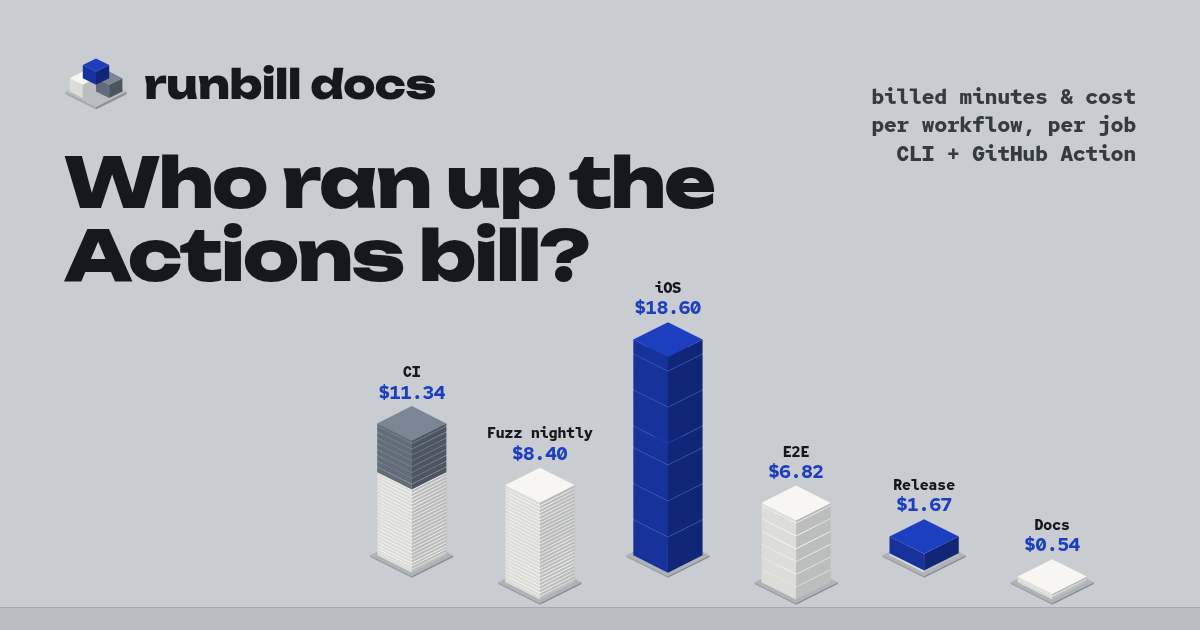
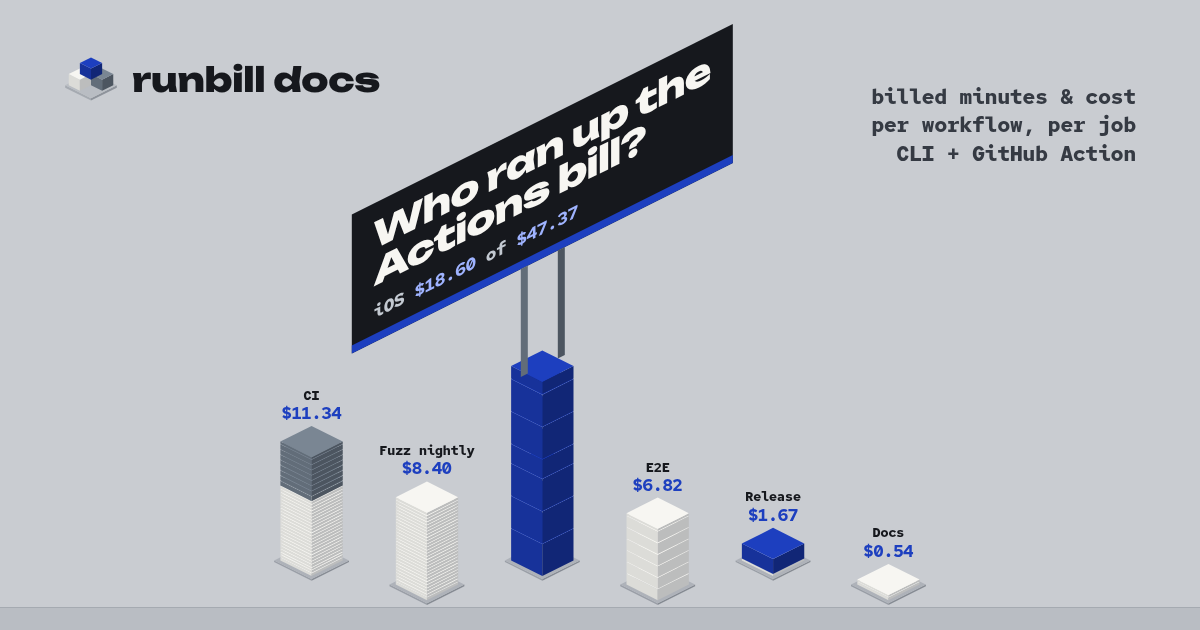
site: the city is the hero; headline becomes a billboard on the tallest roof (page + OG/social preview) (#7)
The v2.0 top-left heavy-sans question headline read structurally like certfan and linelore.
- h1 now lives in the scene: an ink sign skewed into the isometric plane on two posts on the tallest
  building, answering itself ("iOS $18.60 of $47.37"); it rides the roof up while the tower stacks,
  comes down on knock-over, moves to the new tallest after a rebuild; reduced motion places it directly
- kicker/lede moved to a short intro block under the hero; HUD unchanged
- OG image / social previews use the same billboard composition
- DESIGN.md updated

diff --git a/site/app.js b/site/app.js
@@ -45,14 +45,17 @@
     if (done) a.onfinish = done;
     return a;
   }
-  function build(c, animate, onTick) {
+  function build(c, animate, onTick, onLift) {
     var anims = [];
     c.buildings.forEach(function (b, bi) {
       var n = b.bricks.length, per = n ? Math.min(85, 1700 / n) : 0, start = 150 + bi * 110;
       var run = 0;
       if (b.label) b.label.textContent = I.money(animate ? 0 : b.cost);
-      var lift = function (z) { if (b.lblG) b.lblG.style.transform = "translateY(" + (b.top - z).toFixed(1) + "px)"; };
-      if (!animate) return;
+      var lift = function (z) {
+        if (b.lblG) b.lblG.style.transform = "translateY(" + (b.top - z).toFixed(1) + "px)";
+        if (onLift) onLift(b, z, run);
+      };
+      if (!animate) { if (onLift) onLift(b, b.top, b.cost); return; }
       lift(2);
       b.bricks.forEach(function (br, k) {
         anims.push(drop(br, start + k * per, 170 + br.z * 0.25, function () {
@@ -66,33 +69,55 @@
     return anims;
   }
 
-  /* hero city */
-  var svg = document.getElementById("city"), fig = svg.parentNode;
+  /* hero city: the scene is the hero; the headline is a billboard on the roof of the tallest building */
+  var svg = document.getElementById("city"), stage = svg.parentNode;
   var outMin = document.getElementById("cityMin"), outCost = document.getElementById("cityCost"), outName = document.getElementById("cityName");
-  var cur = 0, hero = null, busy = false, lastW = 0;
-  var sky = document.querySelector(".sky");
-  function heroOpts(fs, w) {
+  var board = document.getElementById("board"), panel = board.querySelector(".panel");
+  var bbName = document.getElementById("bbName"), bbCost = document.getElementById("bbCost"), bbTotal = document.getElementById("bbTotal");
+  var cur = 0, hero = null, busy = false, lastW = 0, place = null;
+  var SLOPE = 0.5;                       // skewY(-26.565deg): the sign stands in the iso plane, rising to the right
+  function heroOpts(fs, w, skip) {
     var narrow = (w || innerWidth) < 700, n = CITIES[cur].w.length;
-    return { cols: narrow ? Math.ceil(n / 2) : n, maxH: narrow ? 240 : 260, lot: 40, step: narrow ? 64 : 92, fs: fs || 13, margin: 6, plaza: false, setViewBox: false, footLabels: narrow };
+    return { cols: narrow ? Math.ceil(n / 2) : n, maxH: narrow ? 240 : 260, lot: 40, step: narrow ? 64 : 92, fs: fs || 13, margin: 6,
+      plaza: false, setViewBox: false, footLabels: narrow, skipLabel: skip };
+  }
+  function tallest(data) {
+    var t = 0; data.forEach(function (w, i) { if (I.cost(w) > I.cost(data[t])) t = i; }); return t;
   }
   function layoutHero() {
-    var data = CITIES[cur].w, r = svg.getBoundingClientRect();   // read layout once, before any DOM writes
-    var S = sky.getBoundingClientRect().bottom - r.top + 18, RH = Math.max(160, r.height - S);
-    var fs = 13, scale = 1, o;
-    for (var pass = 0; pass < 4; pass++) {     // geometry-only passes to settle the label size
-      o = heroOpts(fs, r.width); o.dry = true;
-      var v = I.city(svg, data, o).viewBox;
-      scale = Math.min(r.width * 0.94 / v[2], RH / v[3], 1.8);
+    var data = CITIES[cur].w, ti = tallest(data);
+    bbName.textContent = data[ti].name;
+    var r = stage.getBoundingClientRect(), pw = panel.offsetWidth, ph = panel.offsetHeight;   // layout reads first
+    var narrow = r.width < 700, gap = narrow ? 10 : 16;
+    var post = SLOPE * pw / 2 + gap;      // posts long enough that the low (left) end of the sign clears the roof
+    var E = post + ph + SLOPE * pw / 2 + 10;   // sign height above the roof point, skew included
+    var fs = 13, scale = 1, o, d;
+    for (var pass = 0; pass < 4; pass++) {     // geometry-only passes settle scale and label size
+      o = heroOpts(fs, r.width, ti); o.dry = true;
+      d = I.city(svg, data, o);
+      var v = d.viewBox, R = d.buildings[ti].anchor, bottom = v[1] + v[3];
+      scale = Math.min(r.width * 0.94 / v[2], (r.height - 14) / v[3], (r.height - 14 - E) / (bottom - R[1]), 1.8);
       var nfs = Math.max(10, Math.min(26, 13.5 / scale));
       if (Math.abs(nfs - fs) < 0.4) break;
       fs = nfs;
     }
-    var c = I.city(svg, data, heroOpts(fs, r.width));
+    var c = I.city(svg, data, heroOpts(fs, r.width, ti));
     var v2 = c.viewBox, W = r.width / scale, H = r.height / scale;
     var vb = [v2[0] + v2[2] / 2 - W / 2, v2[1] + v2[3] - H + 8 / scale, W, H];
     svg.setAttribute("viewBox", vb.map(function (n) { return n.toFixed(1); }).join(" "));
+    var tb = c.buildings[ti], Rx = (tb.anchor[0] - vb[0]) * scale, Ry = (tb.anchor[1] - vb[1]) * scale;
+    var cx = Math.max(pw / 2 + 10, Math.min(r.width - pw / 2 - 10, Rx)), po = Rx - cx;   // keep the sign on screen
+    post = Math.max(gap, post + SLOPE * po);
+    board.style.setProperty("--post", post.toFixed(1) + "px");
+    board.style.setProperty("--po", po.toFixed(1) + "px");
+    place = { x: cx - pw / 2, y: Ry + SLOPE * po - post - ph, b: tb, s: scale };
     lastW = r.width;
     return c;
+  }
+  function moveBoard(z) {               // the sign rides the roof while its building is being stacked
+    if (!place) return;
+    var dy = (place.b.top - z) * place.s;
+    board.style.transform = "translate(" + place.x.toFixed(1) + "px," + (place.y + dy).toFixed(1) + "px) skewY(-26.565deg)";
   }
   function totals(data) {
     return { min: data.reduce(function (s, w) { return s + I.minutes(w); }, 0), cost: data.reduce(function (s, w) { return s + I.cost(w); }, 0) };
@@ -102,15 +127,23 @@
     outName.textContent = CITIES[cur].name;
     hero = layoutHero();
     svg.setAttribute("aria-label", CITIES[cur].name + ": " + data.map(function (w) { return w.name + " " + I.money(I.cost(w)); }).join(", "));
-    if (!animate) { outMin.value = fmtMin(t.min); outCost.value = I.money(t.cost); build(hero, false); return; }
+    var onLift = function (b, z, run) { if (b === place.b) { moveBoard(z); bbCost.value = I.money(run); } };
+    board.classList.remove("down");
+    if (!animate) {
+      outMin.value = fmtMin(t.min); outCost.value = I.money(t.cost); bbTotal.value = I.money(t.cost);
+      build(hero, false, null, onLift); board.classList.add("placed"); return;
+    }
     var m = 0, cst = 0;
-    outMin.value = "0"; outCost.value = "$0.00";
+    outMin.value = "0"; outCost.value = "$0.00"; bbTotal.value = "$0.00"; bbCost.value = "$0.00";
     busy = true;
+    moveBoard(2); board.classList.add("placed");
     svg.classList.add("pending");             // bricks hidden until the drop starts on the next frame
     requestAnimationFrame(function () {
-      var anims = build(hero, true, function (br) { m += br.min; cst += br.cost; outMin.value = fmtMin(m); outCost.value = I.money(cst); });
+      var anims = build(hero, true, function (br) { m += br.min; cst += br.cost; outMin.value = fmtMin(m); outCost.value = I.money(cst); bbTotal.value = I.money(cst); }, onLift);
       svg.classList.remove("pending");
-      Promise.all(anims.map(function (a) { return a.finished; })).then(function () { outMin.value = fmtMin(t.min); outCost.value = I.money(t.cost); busy = false; }, function () { busy = false; });
+      Promise.all(anims.map(function (a) { return a.finished; })).then(function () {
+        outMin.value = fmtMin(t.min); outCost.value = I.money(t.cost); bbTotal.value = I.money(t.cost); bbCost.value = I.money(place.b.cost); busy = false;
+      }, function () { busy = false; });
     });
   }
   function knockDown(next) {
@@ -123,6 +156,8 @@
       });
     });
     svg.querySelectorAll(".lbl").forEach(function (l) { anims.push(l.animate([{ opacity: 1 }, { opacity: 0 }], { duration: 200, fill: "forwards" })); });
+    board.classList.add("down");            // the sign comes down with its building
+    moveBoard(2);
     Promise.all(anims.map(function (a) { return a.finished; })).then(next, next);
   }
   document.getElementById("again").addEventListener("click", function () {
@@ -135,7 +170,7 @@
   var rt;
   addEventListener("resize", function () {
     clearTimeout(rt);
-    rt = setTimeout(function () { if (Math.abs(svg.getBoundingClientRect().width - lastW) > 30) { hero && hero.buildings.forEach(function (b) { b.bricks.forEach(function (br) { br.g.getAnimations().forEach(function (a) { a.cancel(); }); }); }); busy = false; showHero(false); } if (tourCity) tourLayout(); }, 200);
+    rt = setTimeout(function () { if (Math.abs(stage.getBoundingClientRect().width - lastW) > 30) { hero && hero.buildings.forEach(function (b) { b.bricks.forEach(function (br) { br.g.getAnimations().forEach(function (a) { a.cancel(); }); }); }); busy = false; showHero(false); } if (tourCity) tourLayout(); }, 200);
   });
 
   /* survey: pinned scene, camera pans building to building */

diff --git a/.github/assets/og.html b/.github/assets/og.html
@@ -10,9 +10,14 @@
 @font-face{font-family:RM;src:url(../../site/fonts/redhatmono-400.woff2);font-weight:400}
 html,body{margin:0;width:100vw;height:100vh;overflow:hidden;background:#c9ccd1;color:#16181d}
 .top{position:absolute;left:64px;top:52px;right:64px;z-index:1}
-.mark{display:flex;align-items:center;gap:16px;font:800 40px/1 U;letter-spacing:-.01em}
-.mark svg{width:64px;height:64px}
-h1{font:800 70px/1.04 U;letter-spacing:-.025em;margin:30px 0 0;max-width:15ch}
+.mark{display:flex;align-items:center;gap:14px;font:800 34px/1 U;letter-spacing:-.01em}
+.mark svg{width:54px;height:54px}
+.board{position:absolute;left:0;top:0;z-index:2;transform-origin:50% 100%}
+.board::before,.board::after{content:"";position:absolute;bottom:0;height:var(--post);width:7px;background:#626d79}
+.board::before{left:calc(50% - 22px)}.board::after{left:calc(50% + 15px);background:#4c5560}
+.panel{background:#16181d;color:#f7f6f2;padding:14px 22px 12px;border-bottom:8px solid #1d3fbf;white-space:nowrap}
+h1{font:800 36px/1.04 U;letter-spacing:-.02em;margin:0}
+.bbs{margin:10px 0 0;font:700 17px/1.2 RM;color:#c3c9d1}.bbs b{color:#9fb3ff}
 .sub{position:absolute;right:64px;top:62px;font:600 21px/1.35 RM;text-align:right;color:#353a43}
 svg#c{position:absolute;left:0;bottom:0;width:100%;overflow:visible}
 svg#c text{font-family:RM;paint-order:stroke;stroke:#c9ccd1;stroke-width:5px;stroke-linejoin:round}
@@ -21,8 +26,8 @@ svg#c text{font-family:RM;paint-order:stroke;stroke:#c9ccd1;stroke-width:5px;str
 </style></head><body>
 <div class="top">
   <div class="mark" id="mk"><svg viewBox="0 0 64 64"><polygon points="1.38,42.3 32,57.62 32,54.71 1.38,39.4" fill="#a5aab1"/><polygon points="62.62,42.3 32,57.62 32,54.71 62.62,39.4" fill="#8e939b"/><polygon points="32,24.09 62.62,39.4 32,54.71 1.38,39.4" fill="#b9bdc3"/><polygon points="5.6,39.4 18.8,46 18.8,32.8 5.6,26.2" fill="#dcdcd8"/><polygon points="32,39.4 18.8,46 18.8,32.8 32,26.2" fill="#bcbdbd"/><polygon points="18.8,19.6 32,26.2 18.8,32.8 5.6,26.2" fill="#f7f6f2"/><polygon points="32,39.4 45.2,46 45.2,32.8 32,26.2" fill="#626d79"/><polygon points="58.4,39.4 45.2,46 45.2,32.8 58.4,26.2" fill="#4c5560"/><polygon points="45.2,19.6 58.4,26.2 45.2,32.8 32,26.2" fill="#7a8693"/><polygon points="18.8,26.2 32,32.8 32,19.6 18.8,13" fill="#17329a"/><polygon points="45.2,26.2 32,32.8 32,19.6 45.2,13" fill="#112676"/><polygon points="32,6.4 45.2,13 32,19.6 18.8,13" fill="#1d3fbf"/></svg>runbill</div>
-  <h1>Who ran up the Actions bill?</h1>
 </div>
+<div class="board" id="board"><div class="panel"><h1>Who ran up the<br>Actions bill?</h1><p class="bbs">iOS <b>$18.60</b> of <b>$47.37</b></p></div></div>
 <p class="sub">billed minutes &amp; cost<br>per workflow, per job<br>CLI + GitHub Action</p>
 <svg id="c"></svg>
 <div class="ground"></div>
@@ -37,11 +42,18 @@ svg#c text{font-family:RM;paint-order:stroke;stroke:#c9ccd1;stroke-width:5px;str
     { name: "Release", jobs: [["package", "linux", 30], ["notarize", "macos", 24]] },
     { name: "Docs", jobs: [["build", "linux", 90]] }];
   if (q.get("docs")) document.getElementById("mk").lastChild.textContent = "runbill docs";
-  var svg = document.getElementById("c");
-  var c = Iso.city(svg, data, { cols: 6, maxH: 250, lot: 40, step: 74, fs: 17, plaza: false, margin: 4, setViewBox: false });
-  var v = c.viewBox, cityH = H * 0.54, scale = Math.min(cityH / v[3], (W - 80) / v[2]), vw = W / scale;
-  cityH = v[3] * scale;
-  var vb = [v[0] + v[2] / 2 - vw / 2 - (W * 0.11) / scale, v[1], vw, v[3] + 22 / scale];
-  svg.setAttribute("viewBox", vb.join(" ")); svg.style.height = (cityH + 22) + "px";
+  var svg = document.getElementById("c"), board = document.getElementById("board"), panel = board.firstChild;
+  var pw = panel.offsetWidth, ph = panel.offsetHeight, post = pw / 4 + 12, E = post + ph + pw / 4 + 14, headroom = 120, ground = 22;
+  var o = { cols: 6, maxH: 250, lot: 40, step: 74, fs: 17, plaza: false, margin: 4, setViewBox: false, skipLabel: 2 };
+  var d = Iso.city(svg, data, Object.assign({ dry: true }, o)), v = d.viewBox, R = d.buildings[2].anchor;
+  var avail = H - ground - 10, bottom = v[1] + v[3];
+  var scale = Math.min((W - 80) / v[2], (avail - headroom) / v[3], (avail - E) / (bottom - R[1]));
+  var c = Iso.city(svg, data, o);
+  var vw = W / scale, vh = avail / scale;
+  var vb = [v[0] + v[2] / 2 - vw / 2, bottom - vh, vw, vh];
+  svg.setAttribute("viewBox", vb.join(" ")); svg.style.height = avail + "px"; svg.style.bottom = ground + "px";
+  var Rx = (R[0] - vb[0]) * scale, Ry = (R[1] - vb[1]) * scale + (H - ground - avail);
+  board.style.setProperty("--post", post + "px"); board.style.paddingBottom = post + "px";
+  board.style.transform = "translate(" + (Rx - pw / 2) + "px," + (Ry - post - ph) + "px) skewY(-26.565deg)";
 </script>
 </body></html>

diff --git a/site/style.css b/site/style.css
@@ -32,15 +32,25 @@ h2 code{font-family:var(--mono);font-weight:600;font-size:.82em}
 .bar nav a{color:var(--ink);text-decoration:none}
 .bar nav a:hover{color:var(--cobalt);text-decoration:underline}
 
-/* hero: headline in the sky, the city stands on the page's concrete, full width */
-.hero{position:relative;display:grid;grid-template-rows:auto 1fr auto;height:max(620px,calc(100svh - 62px));overflow:hidden;padding:0}
-.stage{grid-row:1/3;grid-column:1;position:relative;min-height:0}
-.sky{grid-row:1;grid-column:1;align-self:start;position:relative;z-index:1;padding:clamp(8px,2.4vw,34px) var(--pad) 0;pointer-events:none;display:grid;grid-template-columns:minmax(0,1.7fr) minmax(16rem,1fr);column-gap:clamp(24px,4vw,64px);align-items:end}
-.sky .kicker{grid-column:1/-1}
-.sky a{pointer-events:auto}
+/* hero: the city is the protagonist; the headline is a billboard on the tallest roof */
+.hero{position:relative;display:grid;grid-template-rows:1fr auto;height:max(560px,calc(100svh - 62px));overflow:hidden;padding:0}
+.stage{grid-row:1;position:relative;min-height:0}
+.board{position:absolute;left:0;top:0;z-index:2;transform-origin:50% 100%;padding-bottom:var(--post,0px);pointer-events:none}
+.js .board:not(.placed){visibility:hidden}
+.board.placed{transition:transform .18s ease-out,opacity .3s}
+.board.down{opacity:0}
+.board::before,.board::after{content:"";position:absolute;bottom:0;height:var(--post,0px);width:5px;background:var(--win-l)}
+.board::before{left:calc(50% + var(--po,0px) - 16px)}
+.board::after{left:calc(50% + var(--po,0px) + 11px);background:var(--win-r)}
+.panel{background:var(--ink);color:var(--linux);padding:14px 22px 12px;border-bottom:7px solid var(--cobalt);white-space:nowrap}
+.panel h1{font-size:clamp(1.3rem,2.7vw,2.4rem);font-weight:800;line-height:1.04;letter-spacing:-.02em;color:var(--linux)}
+.bb-sub{margin:10px 0 0;font:600 clamp(.8rem,1.1vw,.98rem)/1.2 var(--mono);color:#c3c9d1}
+.bb-sub output{color:#9fb3ff;font-weight:700}
+.bb-sub #bbName{color:var(--linux)}
+html:not(.js) .board{left:50%;top:24px;transform:translateX(-50%)}
+.about{padding-top:clamp(36px,6vw,72px)}
+.about .lede{max-width:46rem;font-size:clamp(1.05rem,1.5vw,1.3rem);margin:0}
 .kicker{font:600 .82rem/1.3 var(--mono);text-transform:uppercase;letter-spacing:.08em;margin:0 0 14px;color:var(--ink-2)}
-h1{font-size:clamp(2.1rem,5.6vw,5.2rem);font-weight:800;letter-spacing:-.025em}
-.lede{max-width:30rem;font-size:clamp(1rem,1.3vw,1.15rem);margin:0 0 .4em}
 .city{display:block;width:100%;height:auto;overflow:visible}
 #city{position:absolute;inset:0;width:100%;height:100%}
 .city text{font-family:var(--mono);paint-order:stroke;stroke:var(--concrete);stroke-width:4px;stroke-linejoin:round}
@@ -127,8 +137,6 @@ footer{margin-top:clamp(70px,10vw,130px);padding:22px var(--pad);background:var(
 footer p{margin:0}
 
 @media (max-width:820px){
-  .sky{grid-template-columns:1fr}
-  .lede{margin-top:16px;max-width:40rem}
   .survey-body{display:block}
   .pin{height:46vh;top:0;z-index:1;background:var(--concrete);border-bottom:1px solid var(--plaza-r)}
   .tour{height:44vh}
@@ -138,7 +146,6 @@ footer p{margin:0}
 }
 @media (max-width:480px){
   .bar nav a[href="docs/blog/"]{display:none}
-  .kicker{display:none}
   .key{gap:4px 12px;font-size:.88rem}
   .term{font-size:.78rem;padding:16px}
 }

diff --git a/site/index.html b/site/index.html
@@ -28,6 +28,7 @@
 <link rel="preload" href="fonts/unbounded-800.woff2" as="font" type="font/woff2" crossorigin>
 <link rel="preload" href="fonts/redhattext-400.woff2" as="font" type="font/woff2" crossorigin>
 <link rel="stylesheet" href="style.css">
+<script>document.documentElement.className="js"</script>
 </head>
 <body>
 <header class="bar">
@@ -39,12 +40,14 @@
 
 <main>
 <section class="hero" aria-labelledby="t">
-  <div class="stage"><svg id="city" class="city" role="img" aria-labelledby="cityCap"></svg></div>
-  <div class="sky">
-    <p class="kicker">GitHub Actions minutes &amp; cost, per workflow and per job</p>
-    <h1 id="t">Who ran up the Actions&nbsp;bill?</h1>
-    <p class="lede">GitHub shows you one total. <b>runbill</b> builds every workflow as a building and lays each job's billed minutes
-      as bricks, priced by runner. A macOS minute is ten Linux minutes tall.</p>
+  <div class="stage">
+    <svg id="city" class="city" role="img" aria-labelledby="cityCap"></svg>
+    <div class="board" id="board">
+      <div class="panel">
+        <h1 id="t">Who ran up the<br>Actions&nbsp;bill?</h1>
+        <p class="bb-sub"><span id="bbName">iOS</span> <output id="bbCost">$18.60</output> <span class="of">of</span> <output id="bbTotal">$47.37</output></p>
+      </div>
+    </div>
   </div>
   <div class="hud">
     <p id="cityCap" class="cap"><b id="cityName">a monorepo</b>, 30 days: <output id="cityMin">0</output> billed min,
@@ -52,6 +55,12 @@
     <p class="key"><span><i class="sw linux"></i>Linux <code>$0.006</code></span><span><i class="sw windows"></i>Windows <code>$0.010</code></span><span><i class="sw macos"></i>macOS <code>$0.062</code></span><span class="per">per min</span></p>
     <button id="again" class="brickbtn" type="button">Pour another city <span aria-hidden="true">↻</span></button>
   </div>
+</section>
+
+<section class="about" aria-label="What runbill does">
+  <p class="kicker">GitHub Actions minutes &amp; cost, per workflow and per job</p>
+  <p class="lede">GitHub shows you one total. <b>runbill</b> builds every workflow as a building and lays each job's billed minutes
+    as bricks, priced by runner. A macOS minute is ten Linux minutes tall, so the tallest building is the workflow running up your bill.</p>
 </section>
 
 <section class="survey" aria-labelledby="sv">

diff --git a/site/iso.js b/site/iso.js
@@ -93,6 +93,7 @@
       var lg = dry ? null : el("g", { "class": "labels" }, scene), placed = [];
       var cw = 0.62 * fs;   // Red Hat Mono advance ~0.6em
       order.slice().sort(function (a, b) { return b.anchor[1] - a.anchor[1]; }).forEach(function (b) {
+        if (b.i === o.skipLabel) return;   // this building carries the billboard instead
         var roof = b.anchor[1] - lot * 0.25;
         var w = Math.max(b.w.name.length * cw, 7 * cw * 1.25) + fs * 0.8, hgt = fs * 2.9;
         var y = roof - fs * 1.1, x = b.anchor[0], moved = false, guard = 0;

diff --git a/site/DESIGN.md b/site/DESIGN.md
@@ -37,8 +37,14 @@ Isometric 3D blocks drawn as SVG polygons from a tiny projection helper (`iso.js
 bottom-to-top. No paper, no grain, no skeuomorphic objects, no outlines.
 
 ## Layout
-1. **Full-bleed city hero.** The wide Unbounded headline sits in the "sky" across the full width; the city
-   plaza fills the lower part of the viewport edge to edge. Not a centred object, not left-copy/right-card.
+1. **The city is the hero (v2.1, 2026-10-10).** No headline block: the full-bleed city fills the first screen and
+   the `<h1>` is a **billboard on the roof of the tallest building**, an ink panel standing in the isometric plane
+   (CSS `skewY(-26.565deg)`, two steel posts down to the roof). Under the title the sign answers its own question:
+   "iOS $18.60 of $47.37". The sign rides the roof up as the tallest building is stacked, comes down when the city is
+   knocked over, and moves to the new tallest building after "Pour another city". It is real DOM text (the page's only
+   h1); without JS it sits centred at the top of the stage. The HUD strip under the scene keeps the dataset, total,
+   brick key and the button; the kicker and lede moved to a short intro block below the hero. (v2.0 had a
+   top-left heavy-sans question headline, which read structurally like certfan and linelore.)
 2. **Survey (scroll tour).** The city stays pinned while the camera pans building to building; beside the scene
    a legend block per building (swatch cube + workflow, jobs, minutes, $) replaces tables and cards.
 3. **Brick conversion chart.** One isometric drawing: the same 50 billed minutes as a Linux, Windows and macOS
@@ -61,8 +67,8 @@ Three flat faces each, transparent background, no rounded app-icon tile, no outl
 favicon, the 512 px PNG, the docs logo and the mark in the OG / social preview.
 
 ## OG image and social preview
-Concrete field, an isometric skyline across the bottom built from the same helper, the Unbounded `runbill`
-wordmark with the logo, and the line "Who ran up the Actions bill?". 1200×630 (`og-image.png`) and 1280×640
+Concrete field, the same skyline built from the same helper, with "Who ran up the Actions bill?" on the billboard
+on the tallest roof (as on the page), plus the logo and `runbill` wordmark as a small corner mark. 1200×630 (`og-image.png`) and 1280×640
 (`social-preview.png`, `og-social-preview.png`).
 
 ## Marketplace branding
@@ -74,7 +80,7 @@ Playbook (2026-10-09):
 - gradient text: **no**, solid ink and solid cobalt
 - glow / glowing strokes: **no**
 - glassmorphism: **no**, no blur, no translucency
-- left-copy/right-animated-card hero: **no**, full-width headline over a full-bleed scene
+- left-copy/right-animated-card hero: **no**, the scene is the hero and the headline is a sign inside it
 - three-column feature cards: **no**, legend blocks in a scroll tour, a single conversion drawing, a storey list
 - generic SaaS / dev-tool template: **no**, the page is the city
 - Inter + monospace default pair: **no**, Unbounded + Red Hat Text + Red Hat Mono
@@ -96,6 +102,7 @@ Against the registry, axis by axis:
 - fonts: Unbounded / Red Hat Text / Red Hat Mono appear in no other project.
 - texture: the only 3D project (three-face flat shading); others are paper, pixels, thin vector lines, flat type.
 - rendering: isometric projection; others are skeuomorphic print, pixel art, generative dataviz, kinetic type.
-- layout: full-bleed scene with a camera pan; others are report page, game HUD, 12-col data plate, Swiss grid.
+- layout: full-bleed scene, headline as an in-scene rooftop billboard, camera pan; others are report page, game HUD,
+  12-col data plate, Swiss grid; none of the others puts its title inside its illustration.
 - motion: gravity (drop, stack, bounce); others are typing/stamping, `steps()` frames, line tracing, letter
   splitting.
